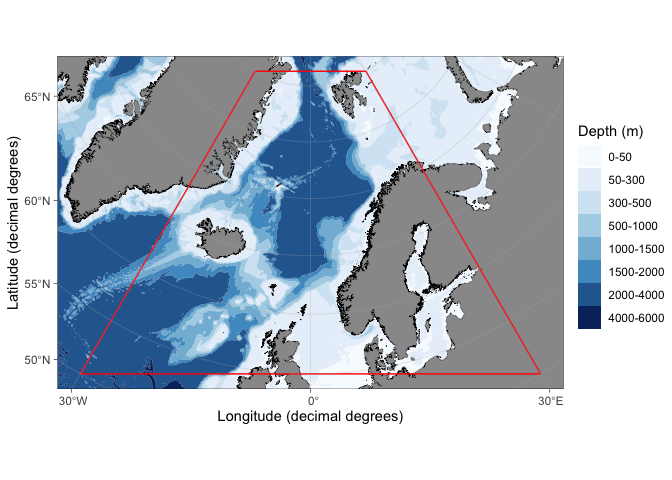
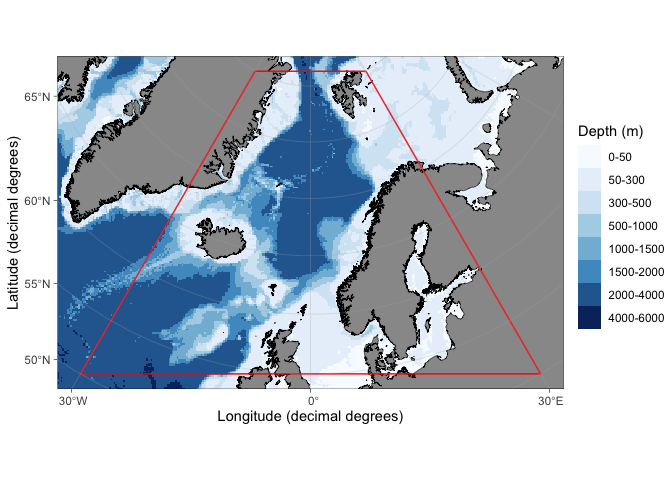
Update readme and description

diff --git a/README.md b/README.md
@@ -2,7 +2,7 @@
 # ggOceanMaps
 
 **Plot data on oceanographic maps using ggplot2. R package version
-1.4.0**
+2.0.0**
 
 <!-- badges: start -->
 
@@ -14,12 +14,12 @@
 <!-- [![R-CMD-check](https://github.com/MikkoVihtakari/ggOceanMaps/workflows/R-CMD-check/badge.svg)](https://github.com/MikkoVihtakari/ggOceanMaps/actions/workflows/R-CMD-check.yaml) -->
 
 **Breaking news** (pun intended) **: ggOceanMaps goes
-[sf](https://r-spatial.github.io/sf/)!** New bugs have likely been
-introduced. If things do not work as expected, delete all files in
-ggOceanMapsLargeData, remove ggOceanMapsData and reinstall ggOceanMaps.
-See the
-[changelog](https://mikkovihtakari.github.io/ggOceanMaps/news/index.html)
-for detailed information on changes and new features.
+[sf](https://r-spatial.github.io/sf/)!** The upgrade involved rewriting
+most of ggOceanMaps code. There are plenty of new features in 2.0 (see
+[here]() and the
+[changelog](https://mikkovihtakari.github.io/ggOceanMaps/news/index.html)),
+but likely also many new bugs. Please [report any bugs on
+Github](#contributions).
 
 ## Overview
 
@@ -47,50 +47,33 @@ The package is available on
 version](https://github.com/MikkoVihtakari/ggOceanMaps), which is
 updated more frequently than the CRAN version.
 
+Installation of the GitHub version:
+
+``` r
+remotes::install_github("MikkoVihtakari/ggOceanMapsData")
+```
+
 Installation of the CRAN version:
 
 ``` r
 install.packages("ggOceanMaps")
 ```
 
-Due to the package size limitations, ggOceanMaps requires the
-[ggOceanMapsData](https://github.com/MikkoVihtakari/ggOceanMapsData)
-package which stores shapefiles used in low-resolution maps. If the data
-package does not install automatically, you can install it from GitHub
-using devtools or remotes packages, or a drat repository on Windows and
-Mac:
-
-``` r
-remotes::install_github("MikkoVihtakari/ggOceanMapsData")
-
-# OR:
-
-install.packages(
-  "ggOceanMapsData", 
-  repos = c("https://mikkovihtakari.github.io/drat", 
-            "https://cloud.r-project.org")
-)
-```
-
-The GitHub version of ggOceanMaps can be installed using the
-[**remotes**](https://CRAN.R-project.org/package=remotes) package.
-
-``` r
-remotes::install_github("MikkoVihtakari/ggOceanMapsData") # required by ggOceanMaps
-remotes::install_github("MikkoVihtakari/ggOceanMaps")
-```
+The new 2.0 version of ggOceanMaps does not require the ggOceanMapsData
+package any longer. Detailed map data are downloaded when needed from
+the [ggOceanMapsLargeData](#data-path) repository.
 
 ## Usage
 
 **ggOceanMaps** extends on
 [**ggplot2**](http://ggplot2.tidyverse.org/reference/). The package uses
-spatial shapefiles, [GIS packages for
+spatial ([**sf**](https://r-spatial.github.io/sf/)) shape- (e.g. vector)
+and ([**stars**](https://r-spatial.github.io/stars/)) raster files,
+[geospatial packages for
 R](https://cran.r-project.org/web/views/Spatial.html) to manipulate, and
-the
-[**ggspatial**](https://cran.r-project.org/web/packages/ggspatial/index.html)
-package to help to plot these shapefiles. The shapefile plotting is
-conducted internally in the `basemap` function and uses [ggplot’s sf
-object plotting
+ggplot2 to plot these data. The vector and raster plotting is conducted
+internally in the `basemap` function, which uses [ggplot’s sf object
+plotting
 capabilities](https://ggplot2.tidyverse.org/reference/ggsf.html). Maps
 are plotted using the `basemap()` or `qmap()` functions that work almost
 similarly to [`ggplot()` as a
@@ -115,7 +98,7 @@ basemap(data = dt, bathymetry = TRUE) +
                color = "red", fill = NA)
 ```
 
-![](man/figures/README-unnamed-chunk-6-1.png)<!-- -->
+![](man/figures/README-unnamed-chunk-5-1.png)<!-- -->
 
 See the [ggOceanMaps
 website](https://mikkovihtakari.github.io/ggOceanMaps/index.html),
@@ -151,8 +134,8 @@ computer by modifying your .Rprofile file
 ```
 
 It is smart to use a directory R has writing access to. For example
-`"~/Documents/ggOceanMapsLargeData"` would work for most operating
-systems.
+`normalizePath("~/Documents/ggOceanMapsLargeData")"` would work for most
+operating systems.
 
 You will need to set up the data path to your .Rprofile file only once
 and ggOceanMaps will find the path even though you updated your R or
@@ -179,11 +162,10 @@ from the following sources:
   Shelves datasets combined. Distributed under the [CC Public Domain
   license](https://creativecommons.org/publicdomain/) ([terms of
   use](https://www.naturalearthdata.com/about/terms-of-use/)).
-- **ggOceanMapsData bathymetry.** [Amante, C. and B.W. Eakins, 2009.
-  ETOPO1 1 Arc-Minute Global Relief Model: Procedures, Data Sources and
-  Analysis. NOAA Technical Memorandum NESDIS NGDC-24. National
-  Geophysical Data Center,
-  NOAA](https://www.ngdc.noaa.gov/mgg/global/relief/ETOPO1/docs/ETOPO1.pdf).
+- **ggOceanMapsData bathymetry.** [NOAA National Centers for
+  Environmental Information. 2022: ETOPO 2022 15 Arc-Second Global
+  Relief Model. NOAA National Centers for Environmental Information.
+  DOI: 10.25921/fd45-gt74](https://doi.org/10.25921/fd45-gt74).
   Distributed under the [U.S. Government Work
   license](https://www.usa.gov/government-works).
 - **Detailed shapefiles of Svalbard and the Norwegian coast in
@@ -195,7 +177,7 @@ from the following sources:
   [ggOceanMapsLargeData](https://github.com/MikkoVihtakari/ggOceanMapsLargeData)**
   are vectorized from the [General Bathymetric Chart of the
   Oceans](https://www.gebco.net/data_and_products/gridded_bathymetry_data/)
-  15-arcsecond 2021 grid. [Terms of
+  15-arcsecond 2023 grid. [Terms of
   use](https://www.gebco.net/data_and_products/gridded_bathymetry_data/gebco_2019/grid_terms_of_use.html)
 - **Detailed bathymetry of the Northeast Atlantic (EMODned) in
   [ggOceanMapsLargeData](https://github.com/MikkoVihtakari/ggOceanMapsLargeData)**
@@ -212,7 +194,7 @@ citation("ggOceanMaps")
 #> To cite package 'ggOceanMaps' in publications use:
 #> 
 #>   Vihtakari M (2023). _ggOceanMaps: Plot Data on Oceanographic Maps
-#>   using 'ggplot2'_. R package version 1.4.0,
+#>   using 'ggplot2'_. R package version 2.0.0,
 #>   <https://mikkovihtakari.github.io/ggOceanMaps/>.
 #> 
 #> A BibTeX entry for LaTeX users is
@@ -221,7 +203,7 @@ citation("ggOceanMaps")
 #>     title = {ggOceanMaps: Plot Data on Oceanographic Maps using 'ggplot2'},
 #>     author = {Mikko Vihtakari},
 #>     year = {2023},
-#>     note = {R package version 1.4.0},
+#>     note = {R package version 2.0.0},
 #>     url = {https://mikkovihtakari.github.io/ggOceanMaps/},
 #>   }
 ```
@@ -229,9 +211,9 @@ citation("ggOceanMaps")
 ## Getting help
 
 If your problem does not involve bugs in ggOceanMaps, the quickest way
-of getting help is posting your problem to [Stack
+of getting help can be posting your problem to [Stack
 Overflow](https://stackoverflow.com/questions/tagged/r). Alternatively,
-use the [issues
+you are welcome to use the [issues
 section](https://github.com/MikkoVihtakari/ggOceanMaps/issues) on
 GitHub. Please remember to include a reproducible example that
 illustrates your problem and to add links to potential cross-posts.
@@ -247,37 +229,3 @@ include a [minimal reproducible
 example](https://en.wikipedia.org/wiki/Minimal_working_example).
 Considerable contributions to the package development will be credited
 with authorship.
-
-## Debugging installation
-
-After a successful installation, the following code should return a plot
-shown under
-
-``` r
-library(ggOceanMaps)
-basemap(60)
-```
-
-![](man/figures/README-unnamed-chunk-9-1.png)<!-- -->
-
-If the `basemap()` function complains about ggOceanMapsData package not
-being available, the drat repository may have issues (assuming you
-followed the installation instructions above). Try installing the
-ggOceanMapsData package using the devtools/remotes package. The data
-package does not contain any C++ code and should compile easily.
-
-If you encounter problems during the devtools installation, you may set
-the `upgrade` argument to `"never"` and try the following steps:
-
-1.  Manually update all R packages you have installed (Packages -\>
-    Update -\> Select all -\> Install updates in R Studio). If an update
-    of a package fails, try installing that package again using the
-    `install.packages` function or the R Studio menu.
-2.  Run
-    `devtools::install_github("MikkoVihtakari/ggOceanMaps", upgrade = "never")`.
-3.  If the installation of a dependency fails, try installing that
-    package manually and repeat step 2.
-4.  Since R has lately been updated to 4.0, you may have to update your
-    R to the latest major version for all dependencies to work (`stars`,
-    `rgdal` and `sf` have been reported to cause trouble during the
-    installation).
